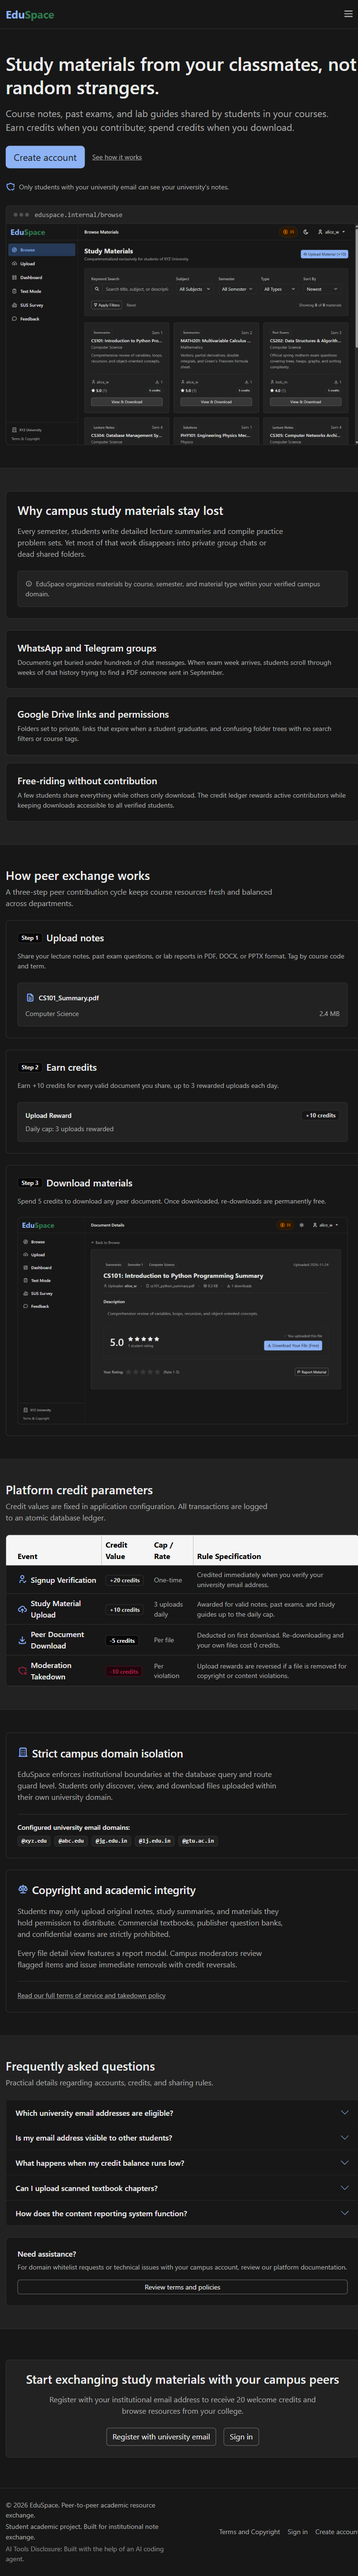
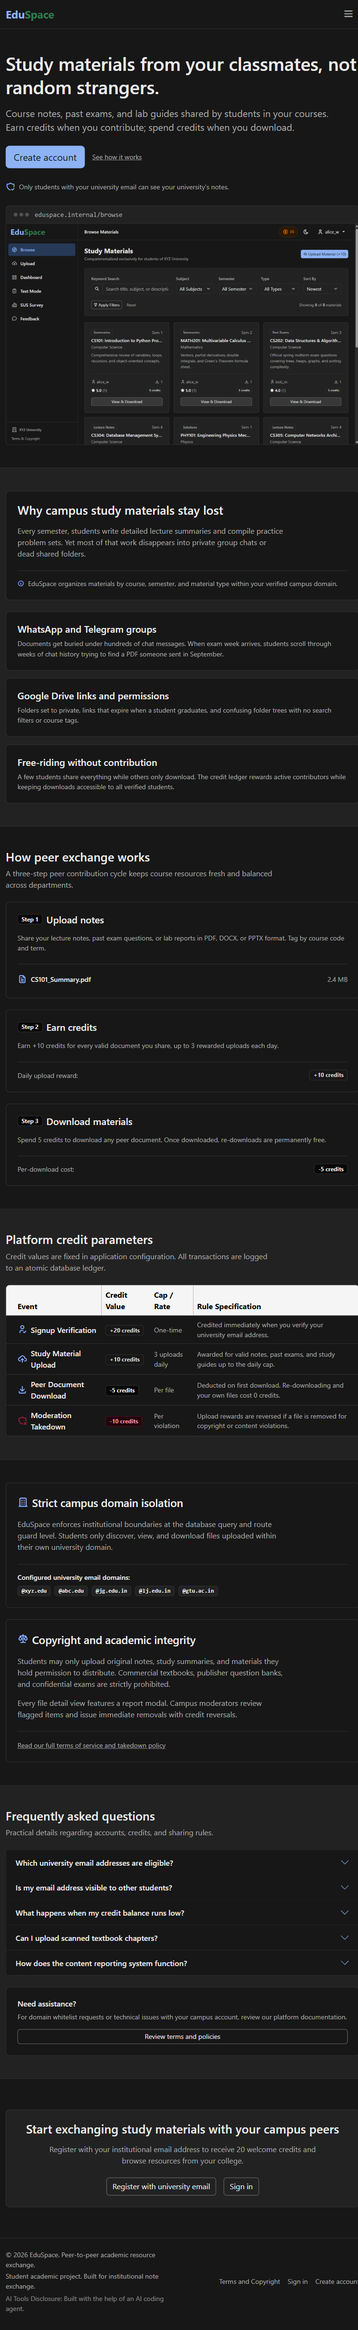
fix(landing): flatten nested card hierarchy and improve takedown badge contrast for impeccable audit compliance

diff --git a/templates/landing.html b/templates/landing.html
@@ -116,8 +116,8 @@
                                 Every semester, students write detailed lecture summaries and compile practice problem sets. Yet most of that work disappears into private group chats or dead shared folders.
                             </p>
                         </div>
-                        <div class="p-3 border rounded-2 bg-body-secondary small text-body-secondary">
-                            <i class="ti ti-info-circle me-1" aria-hidden="true"></i>
+                        <div class="pt-3 border-top small text-body-secondary">
+                            <i class="ti ti-info-circle me-1 text-primary" aria-hidden="true"></i>
                             EduSpace organizes materials by course, semester, and material type within your verified campus domain.
                         </div>
                     </div>
@@ -163,74 +163,52 @@
 
             <div class="row g-4">
                 <div class="col-lg-4">
-                    <div class="card h-100 border rounded-3 bg-body">
-                        <div class="card-body p-4 d-flex flex-column">
-                            <div class="d-flex align-items-center gap-2 mb-3">
-                                <span class="badge bg-secondary-subtle text-body border fw-bold px-2 py-1">Step 1</span>
-                                <h3 class="h5 fw-semibold text-body mb-0">Upload notes</h3>
+                    <div class="h-100 p-4 border rounded-3 bg-body d-flex flex-column">
+                        <div class="d-flex align-items-center gap-2 mb-3">
+                            <span class="badge bg-secondary-subtle text-body border fw-bold px-2 py-1">Step 1</span>
+                            <h3 class="h5 fw-semibold text-body mb-0">Upload notes</h3>
+                        </div>
+                        <p class="text-body-secondary small mb-4 flex-grow-1">
+                            Share your lecture notes, past exam questions, or lab reports in PDF, DOCX, or PPTX format. Tag by course code and term.
+                        </p>
+                        <div class="pt-3 border-top d-flex justify-content-between align-items-center text-body-secondary small">
+                            <div class="d-flex align-items-center gap-2">
+                                <i class="ti ti-file-text text-primary fs-5" aria-hidden="true"></i>
+                                <span class="fw-medium text-body">CS101_Summary.pdf</span>
                             </div>
-                            <p class="text-body-secondary small mb-4 flex-grow-1">
-                                Share your lecture notes, past exam questions, or lab reports in PDF, DOCX, or PPTX format. Tag by course code and term.
-                            </p>
-
-                            <!-- Mini file card preview -->
-                            <div class="p-3 border rounded-2 bg-body-tertiary">
-                                <div class="d-flex align-items-center gap-2 mb-2">
-                                    <i class="ti ti-file-text text-primary fs-5" aria-hidden="true"></i>
-                                    <span class="fw-medium small text-body text-truncate">CS101_Summary.pdf</span>
-                                </div>
-                                <div class="d-flex justify-content-between text-body-secondary small">
-                                    <span>Computer Science</span>
-                                    <span>2.4 MB</span>
-                                </div>
-                            </div>
+                            <span>2.4 MB</span>
                         </div>
                     </div>
                 </div>
 
                 <div class="col-lg-4">
-                    <div class="card h-100 border rounded-3 bg-body">
-                        <div class="card-body p-4 d-flex flex-column">
-                            <div class="d-flex align-items-center gap-2 mb-3">
-                                <span class="badge bg-secondary-subtle text-body border fw-bold px-2 py-1">Step 2</span>
-                                <h3 class="h5 fw-semibold text-body mb-0">Earn credits</h3>
-                            </div>
-                            <p class="text-body-secondary small mb-4 flex-grow-1">
-                                Earn +{{ config.UPLOAD_REWARD }} credits for every valid document you share, up to {{ config.MAX_REWARDED_UPLOADS_PER_DAY }} rewarded uploads each day.
-                            </p>
-
-                            <!-- Mini credit transaction card -->
-                            <div class="p-3 border rounded-2 bg-body-tertiary">
-                                <div class="d-flex justify-content-between align-items-center mb-1">
-                                    <span class="small fw-medium text-body">Upload Reward</span>
-                                    <span class="badge bg-brass-subtle text-brass-emphasis border border-brass-subtle">+{{ config.UPLOAD_REWARD }} credits</span>
-                                </div>
-                                <span class="text-body-secondary small">Daily cap: {{ config.MAX_REWARDED_UPLOADS_PER_DAY }} uploads rewarded</span>
-                            </div>
+                    <div class="h-100 p-4 border rounded-3 bg-body d-flex flex-column">
+                        <div class="d-flex align-items-center gap-2 mb-3">
+                            <span class="badge bg-secondary-subtle text-body border fw-bold px-2 py-1">Step 2</span>
+                            <h3 class="h5 fw-semibold text-body mb-0">Earn credits</h3>
+                        </div>
+                        <p class="text-body-secondary small mb-4 flex-grow-1">
+                            Earn +{{ config.UPLOAD_REWARD }} credits for every valid document you share, up to {{ config.MAX_REWARDED_UPLOADS_PER_DAY }} rewarded uploads each day.
+                        </p>
+                        <div class="pt-3 border-top d-flex justify-content-between align-items-center">
+                            <span class="small text-body-secondary">Daily upload reward:</span>
+                            <span class="badge bg-brass-subtle text-brass-emphasis border border-brass-subtle">+{{ config.UPLOAD_REWARD }} credits</span>
                         </div>
                     </div>
                 </div>
 
                 <div class="col-lg-4">
-                    <div class="card h-100 border rounded-3 bg-body">
-                        <div class="card-body p-4 d-flex flex-column">
-                            <div class="d-flex align-items-center gap-2 mb-3">
-                                <span class="badge bg-secondary-subtle text-body border fw-bold px-2 py-1">Step 3</span>
-                                <h3 class="h5 fw-semibold text-body mb-0">Download materials</h3>
-                            </div>
-                            <p class="text-body-secondary small mb-4 flex-grow-1">
-                                Spend {{ config.DOWNLOAD_COST }} credits to download any peer document. Once downloaded, re-downloads are permanently free.
-                            </p>
-
-                            <!-- Mini crop preview of file detail -->
-                            <div class="border rounded-2 overflow-hidden bg-body-tertiary">
-                                <img src="{{ url_for('static', filename='img/file-preview-light.png') }}"
-                                    class="img-fluid landing-preview-light w-100" width="1280" height="800"
-                                    alt="Resource preview detail view" loading="lazy">
-                                <img src="{{ url_for('static', filename='img/file-preview-dark.png') }}"
-                                    class="img-fluid landing-preview-dark w-100" width="1280" height="800"
-                                    alt="Resource preview detail view in dark theme" loading="lazy">
-                            </div>
+                    <div class="h-100 p-4 border rounded-3 bg-body d-flex flex-column">
+                        <div class="d-flex align-items-center gap-2 mb-3">
+                            <span class="badge bg-secondary-subtle text-body border fw-bold px-2 py-1">Step 3</span>
+                            <h3 class="h5 fw-semibold text-body mb-0">Download materials</h3>
+                        </div>
+                        <p class="text-body-secondary small mb-4 flex-grow-1">
+                            Spend {{ config.DOWNLOAD_COST }} credits to download any peer document. Once downloaded, re-downloads are permanently free.
+                        </p>
+                        <div class="pt-3 border-top d-flex justify-content-between align-items-center">
+                            <span class="small text-body-secondary">Per-download cost:</span>
+                            <span class="badge bg-secondary-subtle text-body border">-{{ config.DOWNLOAD_COST }} credits</span>
                         </div>
                     </div>
                 </div>
@@ -307,7 +285,7 @@
                                     </div>
                                 </td>
                                 <td>
-                                    <span class="badge bg-danger-subtle text-danger border border-danger-subtle">-{{ config.UPLOAD_REWARD }} credits</span>
+                                    <span class="badge bg-danger-subtle text-danger-emphasis border border-danger-subtle">-{{ config.UPLOAD_REWARD }} credits</span>
                                 </td>
                                 <td class="text-body-secondary small">Per violation</td>
                                 <td class="pe-4 text-body-secondary small">Upload rewards are reversed if a file is removed for copyright or content violations.</td>
